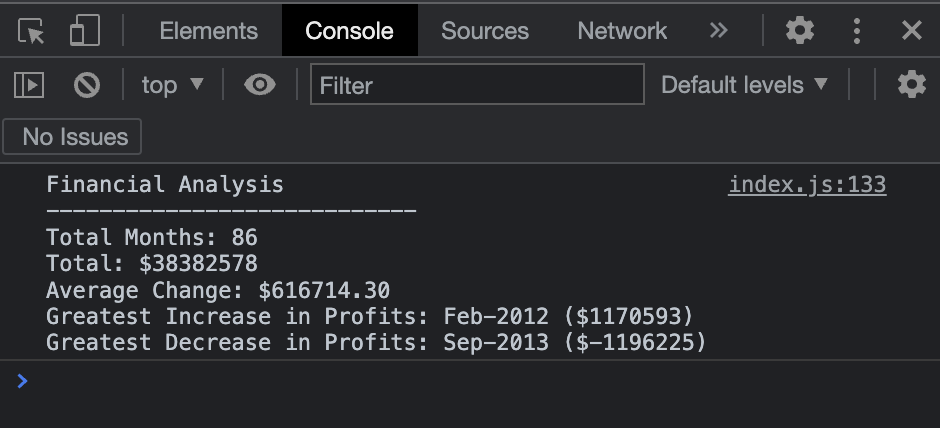
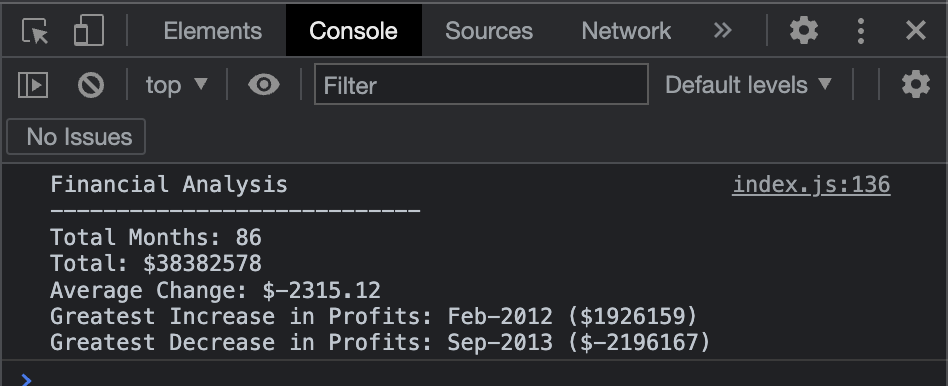
amended application code

Changed region(s): [[0.0, 0.0, 1.0, 1.0], [0.0, 0.5285, 0.7713, 1.0], [0.7404, 0.0311, 0.7713, 0.0933]]

diff --git a/index.js b/index.js
@@ -90,9 +90,14 @@ var finances = [
     // Here I set all the variables I will use throughout the code
     var monthTotal = 0;
     var totalEarnings = 0;
-    var changesArray = 0;
-    var totalChanges = 0;
-    var averageChange = 0;
+    var profitChange = 0;
+    var changeArray = [];
+    var highestIncrease = 0;
+    var highestIncreaseIndex = 0;
+    var highestIncreaseMonth = '';
+    var highestDecrease = 0;
+    var highestDecreaseIndex = 0;
+    var highestDecreaseMonth = '';
     var highestEarnings = 0;
     var highestEarningsMonth = '';
     var lowestEarnings = 0;
@@ -107,27 +112,25 @@ var finances = [
     };
     
     // below here is to calculate the average change in earnings
-    changesArray = finances.map((earnings) => earnings[1]); // this makes an new array of just the second items of the finances array
-    changesArray = changesArray.map(change => Math.abs(change)); // this amends the array of second items so that all negative numbers are now positive
-    
-    for (var i = 0 ; i < changesArray.length ; i++) { // this runs a loop to add the second item of each entry to a running total of changes
-    totalChanges = totalChanges + changesArray[i];
+    for (var i = 1 ; i < finances.length  ; i++) { // this runs a loop with subtracts the previous months profit from the current months profit to see the difference. The result is placed in a new array named changeArray
+     profitChange = finances[i][1] - finances[i-1][1]
+     changeArray.push(profitChange);
     };
     
-    averageChange = (totalChanges / changesArray.length).toFixed(2); // this divides the total of changes by the number of changes and stores in as the variable averageChange to 2 decimal places
+    changeArrayTotal = changeArray.reduce((partialSum, a) => partialSum + a, 0); // this calculates the total of changeArray
     
-    // below here works out the highest and lowest profits and the months they were in
-    for (var i = 0 ; i < finances.length  ; i++) { // this runs a loop where it compares the second item of each entry in the finances array to 'highestEarnings' - if the number is higher it replaces highestEarnings with the new number and also replaces highestEarningMonth with the first item of that entry
-     if (finances[i][1] > highestEarnings) {
-     highestEarnings = finances[i][1];
-     highestEarningsMonth = finances[i][0];
-    }};
+    averageChange = (changeArrayTotal / changeArray.length).toFixed(2); // this calculates the average change amount by dividing the toal by the number of changes. Stores the results to 2 decimal places as averageChange
     
-    for (var i = 0 ; i < finances.length  ; i++) { // this runs a loop where it compares the second item of each entry in the finances array to 'lowestEarnings' - if the number is lower it replaces lowestEarnings with the new number and also replaces lowestEarningMonth with the first item of that entry
-     if (finances[i][1] < lowestEarnings) {
-     lowestEarnings = finances[i][1];
-     lowestEarningsMonth = finances[i][0];
-    }};
+    // below here calculates the highest increase and decrease of profits
+    highestIncrease = Math.max(...changeArray); // searches the changes array for the highest number
+    
+    highestIncreaseIndex = changeArray.indexOf(highestIncrease); // finds the index value of the highest number
+    highestIncreaseMonth = (finances[highestIncreaseIndex + 1][0]) // finds the month responsible for the highest increase in the original array by adding one to the highest increases index
+    
+    highestDecrease = Math.min(...changeArray); // searches the changes array for the lowest number
+    
+    highestDecreaseIndex = changeArray.indexOf(highestDecrease); // finds the index value of the lowest number
+    highestDecreaseMonth = (finances[highestDecreaseIndex + 1][0]) // finds the month responsible for the highest decrease in the original array by adding one to the highest decrease index
     
     // below here prints the results to the console
-    console.log('Financial Analysis' + '\n' + '----------------------------' + '\n' + 'Total Months: ' + finances.length + '\n' + 'Total: $' + totalEarnings + '\n' + 'Average Change: ' + '$' + averageChange + '\n' + 'Greatest Increase in Profits: ' + highestEarningsMonth + ' ' + '($' + highestEarnings + ')' + '\n' + 'Greatest Decrease in Profits: ' + lowestEarningsMonth + ' ' + '($' + lowestEarnings + ')');
+    console.log('Financial Analysis' + '\n' + '----------------------------' + '\n' + 'Total Months: ' + finances.length + '\n' + 'Total: $' + totalEarnings + '\n' + 'Average Change: ' + '$' + averageChange + '\n' + 'Greatest Increase in Profits: ' + highestIncreaseMonth + ' ' + '($' + highestIncrease + ')' + '\n' + 'Greatest Decrease in Profits: ' + highestDecreaseMonth + ' ' + '($' + highestDecrease + ')');
